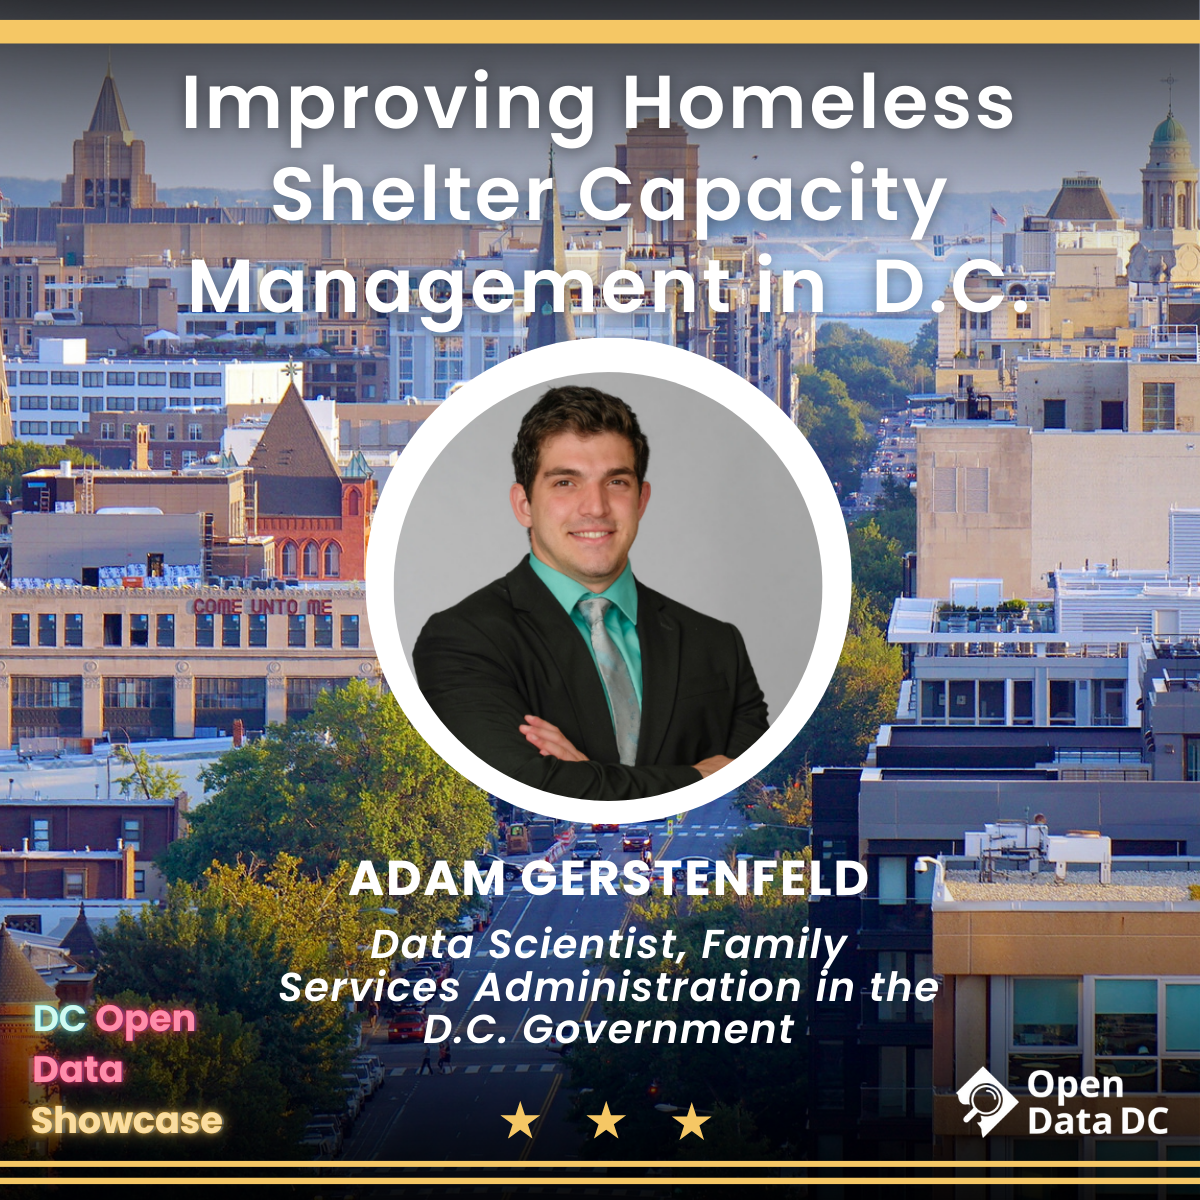
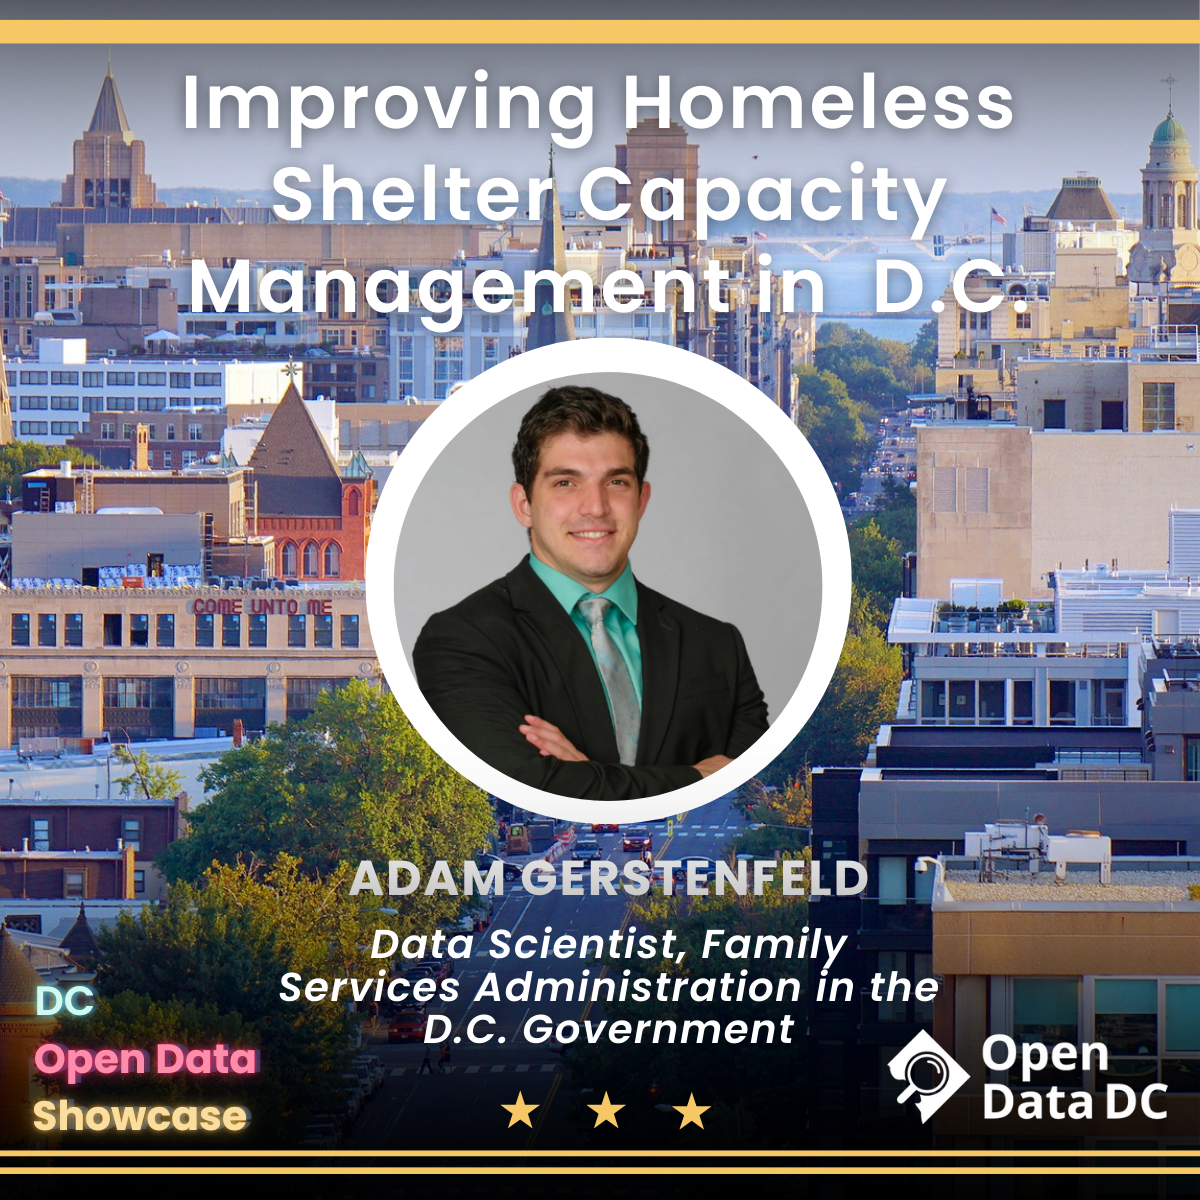
small changes to photos and schedule

Changed region(s): [[0.0, 0.0, 1.0, 0.185], [0.0, 0.7092, 1.0, 0.9867], [0.2158, 0.74, 0.2467, 0.7708]]

diff --git a/data-showcase.md b/data-showcase.md
@@ -26,10 +26,10 @@ hero-image: assets/images/events/data-showcase/hero.png
 <div style="width: 100%; max-width: 1200px; margin: auto; padding: 1rem;">
     <h1 style="font-size: 2rem; font-weight: bold; color: #f8c45c;">Schedule</h1>
     <ul style="margin-top: 1rem; padding-left: 1rem; line-height: 1.8; font-size: 1.2rem;">
-        <li>6:30–7pm — Check in, hang out and network, grab a bite</li>
-        <li>7–7:15pm — Introduction</li>
-        <li>7:15–8:45pm — Lightning Talks</li>
-        <li>8:45–9pm — Closing remarks</li>
+        <li>5:45 - 6:10pm  — Check in, hang out and network, grab a bite</li>
+        <li>6:10 - 6:20pm — Introduction</li>
+        <li>6:20 - 8:40pm — Lightning Talks</li>
+        <li>8:40 - 8:45pm — Closing Remarks</li>
         <li>9–9:30pm — Optional happy hour at a nearby bar</li>
     </ul>
 </div>

diff --git a/about.md b/about.md
@@ -47,7 +47,7 @@ To contact us, please email <team@civictechdc.org>.
 <div style="display: flex; flex-wrap: wrap; justify-content: space-between; gap: 0; width: 100%; margin: 0 auto; padding: 0;">
     <!-- Evan Tung -->
     <div style="flex: 1; min-width: 150px; text-align: center;">
-        <img src="assets/images/team_photos/Evan-Tung.png" style="width: 100%; max-width: 150px; height: auto; border-radius: 50%;" alt="Evan Tung">
+        <img src="assets/images/team_photos/Evan-Tung.jpg" style="width: 100%; max-width: 150px; height: auto; border-radius: 50%;" alt="Evan Tung">
         <p style="margin-top: 1rem; font-size: 1.2rem; font-weight: bold;"><a href="https://www.linkedin.com/in/ejtung/" target="_blank" style="text-decoration: none; color: #0073b1;">Evan Tung</a></p>
     </div>
     <div style="flex: 1; min-width: 150px; text-align: center;">
